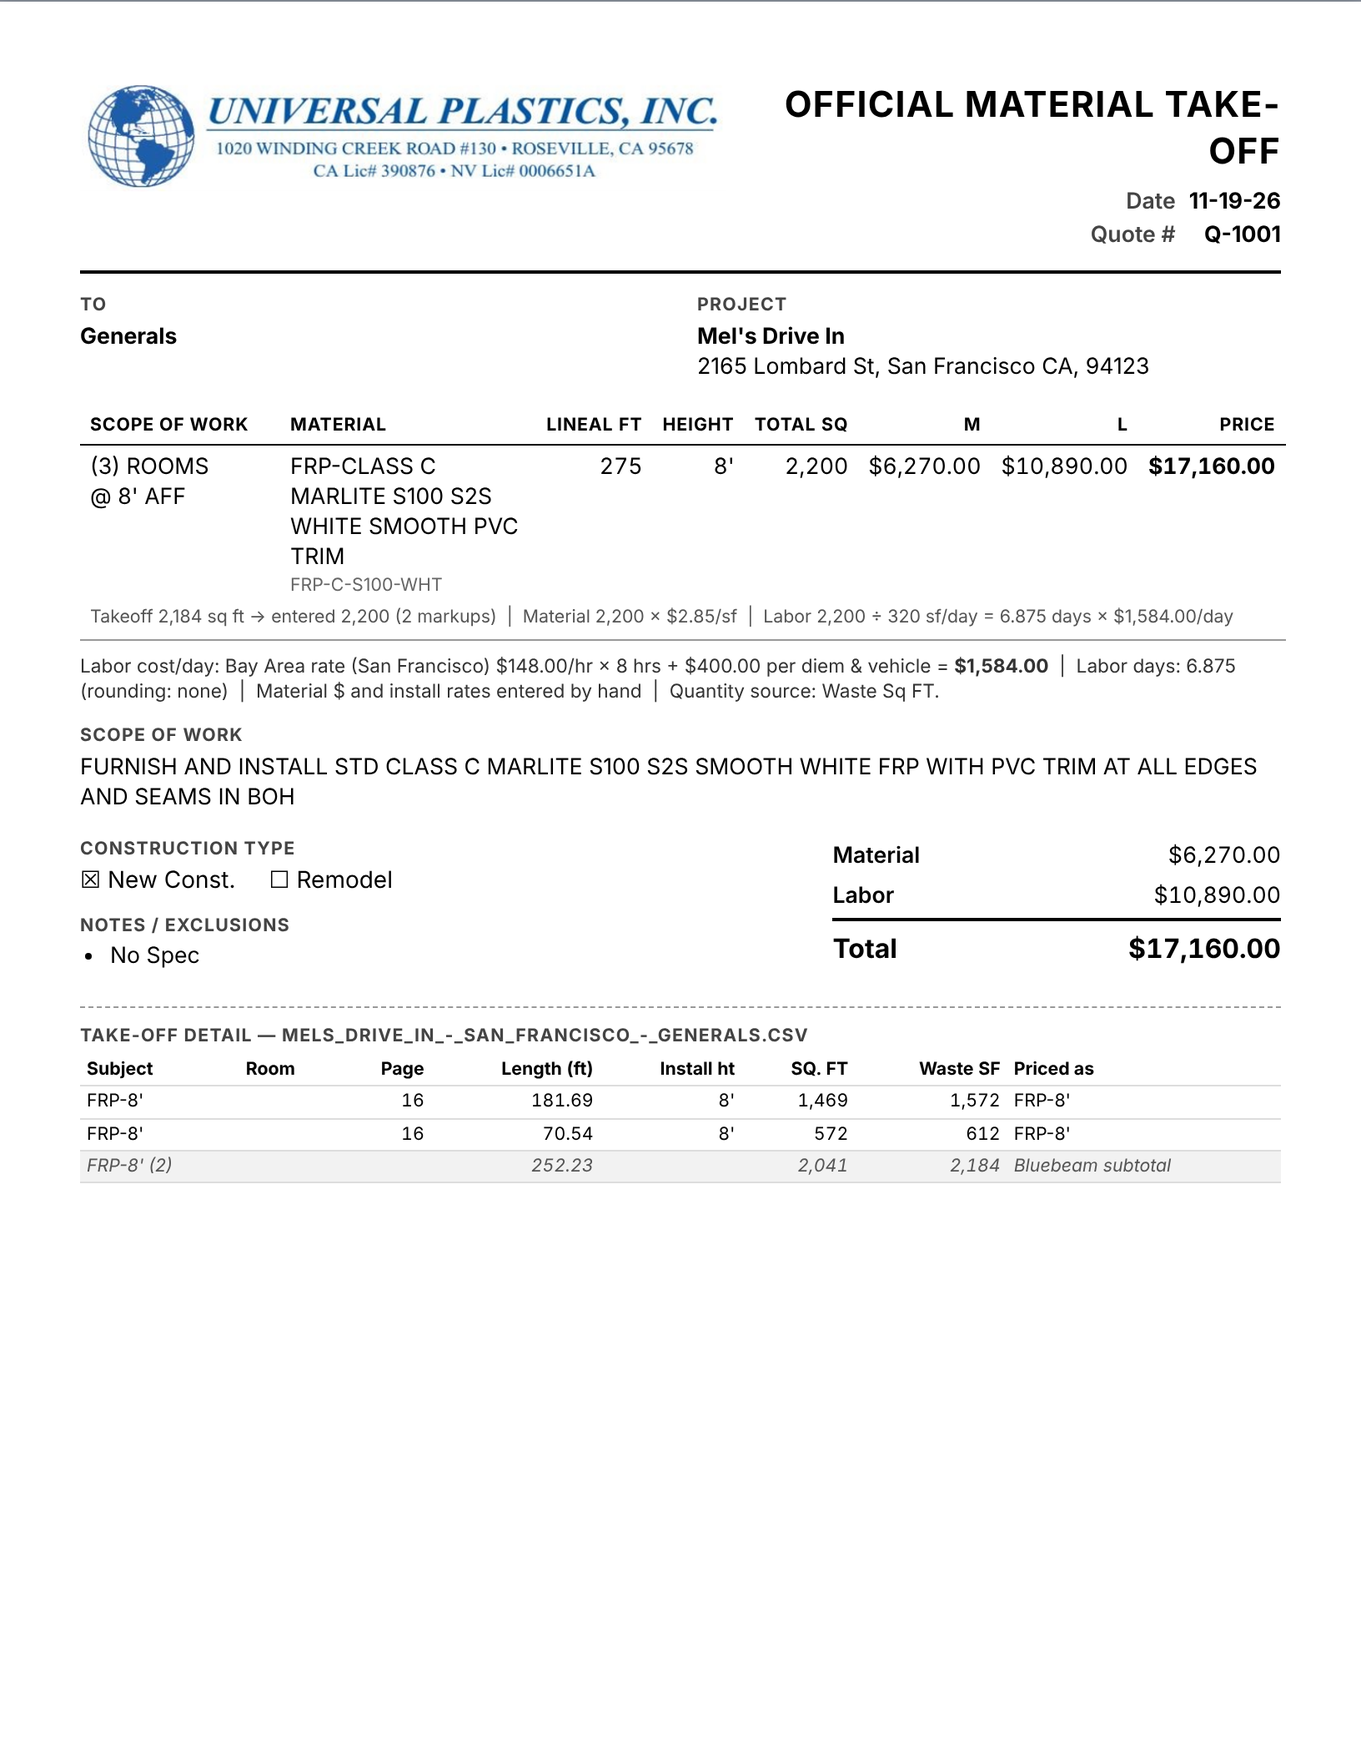
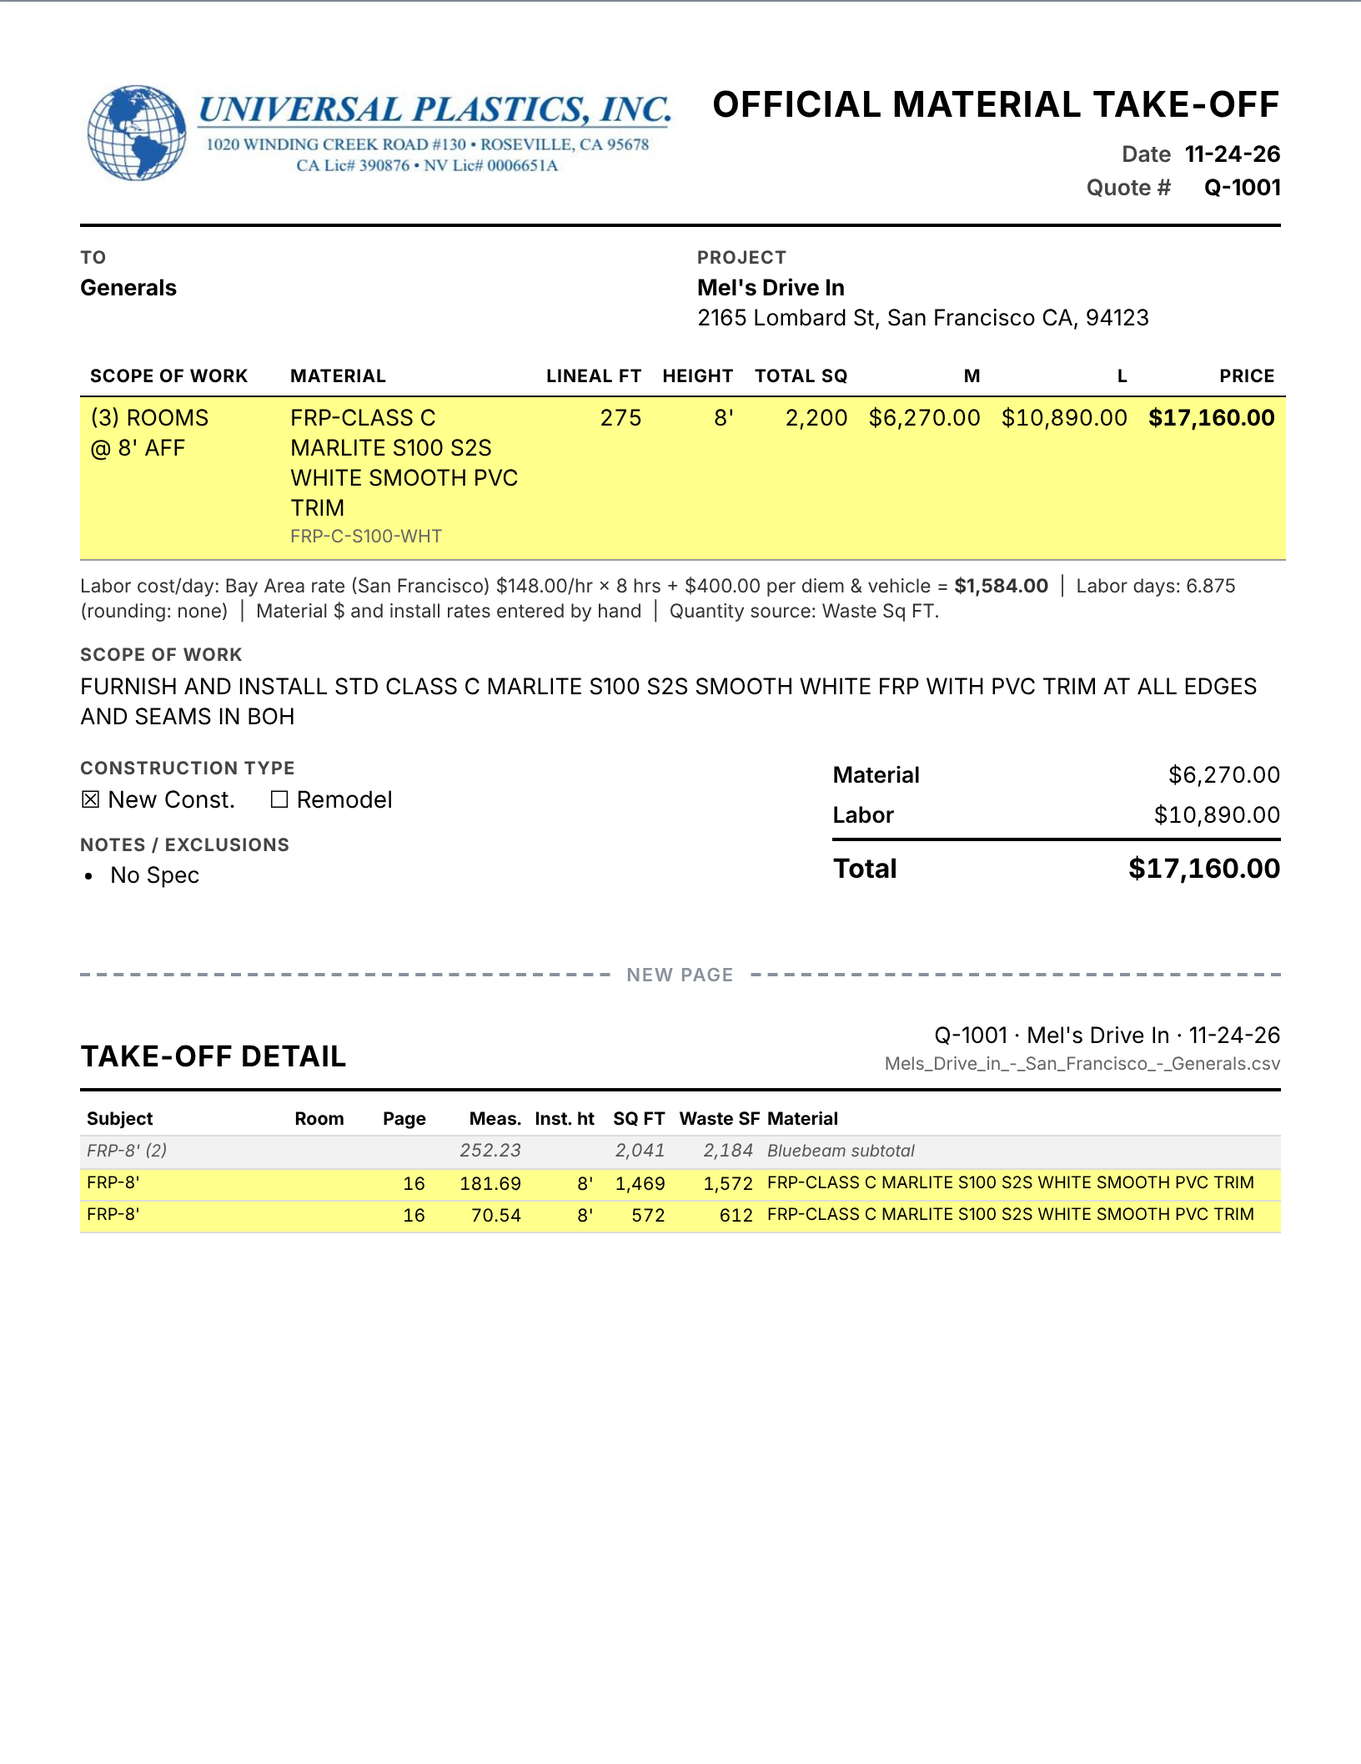
Internal take-off: detail on its own pages with material, calculations off by default (#10)
Take-off detail always starts a new page (repeated headings, own heading, Material description column, subtotals in CSV order, one line per markup); per-line calculation rows hidden by default with a Print options toggle; title no longer wraps beside the letterhead; README and screenshots updated.

Changed region(s): [[0.0312, 0.0312, 0.9688, 0.7181]]

diff --git a/js/quote.js b/js/quote.js
@@ -49,6 +49,7 @@
       validDays: settings.terms.validDays,
       taxPct: settings.terms.taxPct || 0,
       proposal: clone(settings.proposal || { showSplit: false, lumpSum: false, showUnitQty: true }),
+      internal: clone(settings.internal || { showCalc: false }),
       groupByRoom: false,
       laborZone: 'auto',     // union rate: "auto" (from the project city) | "local" | "bay"
       source: null,          // { fileName, importedAt, headers, rows, subtotals, warnings }
@@ -66,6 +67,7 @@
     out.gc = Object.assign({ name: '', attention: '' }, out.gc || {});
     out.project = Object.assign({ name: '', address: '' }, out.project || {});
     out.proposal = Object.assign({ showSplit: false, lumpSum: false, showUnitQty: true }, out.proposal || {});
+    out.internal = Object.assign({ showCalc: false }, out.internal || {});
     out.excludedRows = out.excludedRows || {};
     out.manualLines = out.manualLines || [];
     out.lineOverrides = out.lineOverrides || {};
@@ -241,19 +243,23 @@
           ' &times; ' + U.formatMoney(l.dayRate) + '/day');
       }
       if (l.rooms.length) detail.push('Rooms: ' + l.rooms.map(esc).join(', '));
+      var showCalc = !!(quote.internal && quote.internal.showCalc);
+      // Without the calculation row, still flag a Total SQ typed below the takeoff.
+      var belowFlag = !showCalc && l.qtyBelowTakeoff
+        ? '<div class="doc-flag doc-flag-small">below takeoff (' + U.formatNumber(l.rawQty, 2) + ')</div>' : '';
       return '' +
-        '<tbody class="doc-line"' + (U.tint(l.color) ? ' style="background:' + U.tint(l.color) + '"' : '') + '>' +
+        '<tbody class="doc-line' + (showCalc ? '' : ' nocalc') + '"' + (U.tint(l.color) ? ' style="background:' + U.tint(l.color) + '"' : '') + '>' +
         '<tr>' +
           '<td class="doc-scope-label">' + scopeLabelHtml(l.scopeLabel) + '</td>' +
           '<td>' + esc(l.description) + (l.code ? '<div class="doc-code">' + esc(l.code) + '</div>' : '') + '</td>' +
           '<td class="num">' + (l.linealFt !== null ? U.formatNumber(l.linealFt, l.unit === 'lf' ? 2 : 0) : '') + '</td>' +
           '<td class="num">' + (l.height ? esc(U.formatFeet(l.height)) : '') + '</td>' +
-          '<td class="num">' + qtyCell(l) + '</td>' +
+          '<td class="num">' + qtyCell(l) + belowFlag + '</td>' +
           '<td class="num">' + U.formatMoney(l.material) + '</td>' +
           '<td class="num">' + U.formatMoney(l.labor) + '</td>' +
           '<td class="num doc-strong">' + U.formatMoney(l.total) + '</td>' +
         '</tr>' +
-        '<tr class="doc-calc"><td colspan="8">' + detail.join(' &nbsp;|&nbsp; ') + '</td></tr>' +
+        (showCalc ? '<tr class="doc-calc"><td colspan="8">' + detail.join(' &nbsp;|&nbsp; ') + '</td></tr>' : '') +
         '</tbody>';
     }).join('');
 
@@ -286,36 +292,53 @@
       '</article>';
   }
 
+  /*
+   * Take-off detail: every Bluebeam row the quote is built from, with the material it is priced as.
+   * Printed on its own page(s) after the internal take-off (see .doc-takeoff in print.css).
+   */
   function renderTakeoffDetail(quote, priced) {
     var src = quote.source;
     if (!src || !src.rows || !src.rows.length) return '';
     var lineByRow = {};
     priced.lines.forEach(function (l) { l.rowIds.forEach(function (id) { lineByRow[id] = l; }); });
-    var rows = src.rows.map(function (r) {
+    var unitSuffix = { ea: ' ea', lf: ' lf' };
+    // CSV order, Bluebeam subtotal rows where they were in the export
+    var all = src.rows.concat(src.subtotals || []).slice().sort(function (a, b) { return (a.line || 0) - (b.line || 0); });
+    var body = all.map(function (r) {
+      if (r.isSubtotal) {
+        return '<tr class="doc-subtotal"><td>' + esc(r.subject) + '</td><td></td><td></td>' +
+          '<td class="num">' + U.formatNumber(r.measurement, 2) + '</td><td></td>' +
+          '<td class="num">' + U.formatNumber(r.sqFt, 2) + '</td>' +
+          '<td class="num">' + U.formatNumber(r.wasteSqFt, 2) + '</td><td>Bluebeam subtotal</td></tr>';
+      }
       var excluded = quote.excludedRows[r.id];
       var l = lineByRow[r.id];
       var rowBg = U.tint(r.color);
+      var unit = global.Parse && global.Parse.rowUnit ? global.Parse.rowUnit(r) : null;
+      var material = excluded ? '<em>Excluded</em>'
+        : (l ? esc(l.description) : '<em>Not priced</em>');
       return '<tr' + (excluded || !l ? ' class="doc-muted"' : '') + (rowBg ? ' style="background:' + rowBg + '"' : '') + '>' +
         '<td>' + esc(r.subject) + '</td><td>' + esc(r.room || r.space) + '</td><td class="num">' + esc(r.page) + '</td>' +
-        '<td class="num">' + U.formatNumber(r.measurement, 2) + '</td>' +
+        '<td class="num">' + U.formatNumber(r.measurement, 2) + (unitSuffix[unit] || '') + '</td>' +
         '<td class="num">' + esc(r.installHeightText) + '</td>' +
         '<td class="num">' + U.formatNumber(r.sqFt, 2) + '</td>' +
         '<td class="num">' + U.formatNumber(r.wasteSqFt, 2) + '</td>' +
-        '<td>' + (excluded ? 'excluded' : (l ? esc(l.catalogSubject) : 'not priced')) + '</td></tr>';
-    }).join('');
-    var subs = (src.subtotals || []).map(function (s) {
-      return '<tr class="doc-subtotal"><td>' + esc(s.subject) + '</td><td></td><td></td>' +
-        '<td class="num">' + U.formatNumber(s.measurement, 2) + '</td><td></td>' +
-        '<td class="num">' + U.formatNumber(s.sqFt, 2) + '</td>' +
-        '<td class="num">' + U.formatNumber(s.wasteSqFt, 2) + '</td><td>Bluebeam subtotal</td></tr>';
+        '<td>' + material + '</td></tr>';
     }).join('');
     var warnings = (src.warnings || []).concat(priced.warnings || []).filter(function (w) { return w.level !== 'info'; });
+    var meta = [quote.number, quote.project && quote.project.name, U.formatDateShort(quote.date)].filter(Boolean).map(esc).join(' &middot; ');
     return '' +
       '<section class="doc-takeoff">' +
-        '<div class="doc-label">Take-off detail' + (src.fileName ? ' &mdash; ' + esc(src.fileName) : '') + '</div>' +
-        '<table class="doc-small"><thead><tr><th>Subject</th><th>Room</th><th class="num">Page</th><th class="num">Length (ft)</th>' +
-        '<th class="num">Install ht</th><th class="num">SQ. FT</th><th class="num">Waste SF</th><th>Priced as</th></tr></thead>' +
-        '<tbody>' + rows + subs + '</tbody></table>' +
+        '<div class="doc-takeoff-head">' +
+          '<h2>Take-off detail</h2>' +
+          '<div>' + meta + (src.fileName ? '<div class="doc-code">' + esc(src.fileName) + '</div>' : '') + '</div>' +
+        '</div>' +
+        '<table class="doc-small">' +
+        '<colgroup><col style="width:1.3in"><col style="width:0.55in"><col style="width:0.35in"><col style="width:0.6in">' +
+        '<col style="width:0.45in"><col style="width:0.45in"><col style="width:0.55in"><col></colgroup>' +
+        '<thead><tr><th>Subject</th><th>Room</th><th class="num">Page</th><th class="num">Meas.</th>' +
+        '<th class="num">Inst. ht</th><th class="num">SQ FT</th><th class="num">Waste SF</th><th>Material</th></tr></thead>' +
+        '<tbody>' + body + '</tbody></table>' +
         (warnings.length ? '<ul class="doc-warnings">' + warnings.map(function (w) { return '<li>' + esc(w.message) + '</li>'; }).join('') + '</ul>' : '') +
       '</section>';
   }

diff --git a/css/print.css b/css/print.css
@@ -1,7 +1,7 @@
 /* print.css — the quote document.  Used by the on-screen preview and by Print → Save as PDF. */
 
 .doc { color: #000; font: 10pt/1.35 "Segoe UI", Arial, sans-serif; }
-.doc h1 { font-size: 16pt; margin: 0 0 6px; letter-spacing: .03em; text-align: right; }
+.doc h1 { font-size: 16pt; margin: 0 0 6px; letter-spacing: .03em; text-align: right; white-space: nowrap; }
 .doc .num { text-align: right; white-space: nowrap; font-variant-numeric: tabular-nums; }
 .doc-strong { font-weight: 700; }
 .doc-label { font-size: 8pt; font-weight: 700; text-transform: uppercase; letter-spacing: .06em; color: #444; margin: 0 0 3px; }
@@ -10,7 +10,7 @@
 .doc-company { display: flex; gap: 12px; align-items: flex-start; }
 .doc-logo { max-height: 70px; max-width: 200px; }
 .doc-company-banner { flex-direction: column; gap: 4px; }
-.doc-banner { display: block; width: 4.4in; max-width: 100%; height: auto; }
+.doc-banner { display: block; width: 3.9in; max-width: 100%; height: auto; }
 .doc-banner-contact { font-size: 9pt; padding-left: 2px; }
 .doc-company-name { font-size: 13pt; font-weight: 700; }
 .doc-title { text-align: right; }
@@ -27,6 +27,8 @@
 .doc-lines tbody.doc-line { break-inside: avoid; }
 .doc-lines tr.doc-calc td { font-size: 8pt; color: #555; padding-top: 0; border-bottom: 1px solid #999; }
 .doc-lines tbody.doc-line tr:first-child td { border-bottom: 0; }
+.doc-lines tbody.doc-line.nocalc tr td { border-bottom: 1px solid #999; }
+.doc-flag-small { font-size: 7.5pt; font-weight: 700; white-space: nowrap; }
 .doc-lines td.doc-scope-label { min-width: 1.25in; }      /* label wraps only between chunks (see scopeLabelHtml) */
 .doc-internal .doc-lines td:nth-child(2) { min-width: 1.6in; }
 .doc-code { font-size: 8pt; color: #666; }
@@ -51,7 +53,17 @@
 .doc-sign { display: grid; grid-template-columns: 2fr 1fr 2fr; gap: 24px; margin-top: 36px; font-size: 8.5pt; color: #333; break-inside: avoid; }
 .doc-sign-line { border-bottom: 1px solid #000; height: 28px; margin-bottom: 3px; }
 
-.doc-takeoff { margin-top: 20px; border-top: 1px dashed #999; padding-top: 10px; break-inside: avoid; }
+/* Take-off detail: always starts on its own page (and may run over several); headings repeat per page. */
+.doc-takeoff { break-before: page; page-break-before: always; padding-top: 4px; }
+.doc-takeoff-head { display: flex; justify-content: space-between; align-items: flex-end; gap: 16px; border-bottom: 2px solid #000; padding-bottom: 6px; margin-bottom: 8px; text-align: right; }
+.doc-takeoff-head h2 { margin: 0; font-size: 13pt; letter-spacing: .03em; text-transform: uppercase; text-align: left; }
+.doc-small thead { display: table-header-group; }
+/* Fixed column widths (see <colgroup>): short columns sized to their contents, Material gets ~3in. */
+.doc-takeoff .doc-small { table-layout: fixed; }
+.doc-takeoff .doc-small th, .doc-takeoff .doc-small td.num { white-space: nowrap; overflow: hidden; }
+.doc-takeoff .doc-small td:first-child, .doc-takeoff .doc-small td:last-child { font-size: 7.5pt; }
+.doc-small tr { break-inside: avoid; }
+.doc-small td em { color: #777; }
 .doc-small { width: 100%; border-collapse: collapse; font-size: 8pt; }
 .doc-small th, .doc-small td { padding: 2px 4px; border-bottom: 1px solid #ddd; text-align: left; }
 .doc-small th.num, .doc-small td.num { text-align: right; }

diff --git a/test/tests.html b/test/tests.html
@@ -411,7 +411,11 @@
       eq(L[2].missingRates.length, 0, 'sf/day not needed when days are entered');
       eq(pr.totals.total, 70693.33, 'Total $70,693.33');
       eq(L.filter(function (l) { return l.qtyBelowTakeoff; }).length, 0, 'nothing below takeoff');
-      ok(/9 days \(entered\)/.test(Quote.render(q, pr, s, 'internal')), 'internal take-off shows entered days');
+      ok(!/doc-calc/.test(Quote.render(q, pr, s, 'internal')), 'calculation rows off by default');
+      ok(/\$1,660\.00<\/strong>/.test(Quote.render(q, pr, s, 'internal')), 'labor cost/day summary still shown');
+      q.internal.showCalc = true;
+      ok(/9 days \(entered\)/.test(Quote.render(q, pr, s, 'internal')), 'with calculations on: entered days shown');
+      q.internal.showCalc = false;
     });
 
     group('Pricing — default scope count');
@@ -603,9 +607,17 @@
       eq(L[0].color, '#00FF00', 'most common colour wins');
       eq(L[1].color, null, 'no colour -> none');
       var internal = Quote.render(q, pr, s, 'internal');
-      ok(/<tbody class="doc-line" style="background:#FFFF8C">/.test(internal), 'internal take-off lines shaded');
+      ok(/<tbody class="doc-line[^"]*" style="background:#FFFF8C">/.test(internal), 'internal take-off lines shaded');
       ok(/<tr style="background:#C6FF8C">/.test(internal), 'take-off detail rows shaded');
       ok(!/background:#/.test(Quote.render(q, pr, s, 'proposal')), 'GC proposal stays plain');
+      var detail = internal.slice(internal.indexOf('<section class="doc-takeoff">'));
+      ok(detail.length > 100, 'take-off detail section present');
+      ok(/<th>Material<\/th>/.test(detail), 'Material column');
+      eq((detail.match(/FRP-CLASS C MARLITE S100 S2S WHITE SMOOTH PVC TRIM/g) || []).length, 26, 'material description on every one of the 26 rows');
+      var iFrp = detail.indexOf('104-FRP-10&#39; (2)'), iMar = detail.indexOf('126-MARLITE-4&#39; (15)');
+      ok(iFrp > 0 && iFrp < iMar && iMar < detail.indexOf('SALES'), 'subtotal rows in CSV order');
+      ok(/Take-off detail<\/h2>/.test(detail) && /Q-1001/.test(detail), 'own heading with quote #');
+      ok(!/doc-takeoff/.test(Quote.render(q, pr, s, 'proposal')), 'not on the GC proposal');
     });
 
     group('Pricing — Total SQ vs takeoff');
@@ -619,7 +631,10 @@
       var pr = Pricing.price(q, fixture().rows);
       eq(pr.lines[0].qtyBelowTakeoff, true, '2,100 < 2,184 flagged');
       ok(pr.warnings.some(function (w) { return w.code === 'qtybelow' && /2,100/.test(w.message) && /2,184/.test(w.message); }), 'warning names both numbers');
-      ok(/BELOW TAKEOFF/.test(Quote.render(q, pr, s, 'internal')), 'flagged on the internal take-off');
+      ok(/below takeoff \(2,184\)/.test(Quote.render(q, pr, s, 'internal')), 'flagged on the internal take-off (calculations off)');
+      q.internal.showCalc = true;
+      ok(/BELOW TAKEOFF/.test(Quote.render(q, pr, s, 'internal')), 'flagged in the calculation row (calculations on)');
+      q.internal.showCalc = false;
       ok(!/BELOW TAKEOFF/.test(Quote.render(q, pr, s, 'proposal')), 'never on the GC proposal');
       q.lineOverrides[l.key] = { qty: '2184' };
       eq(Pricing.price(q, fixture().rows).lines[0].qtyBelowTakeoff, false, 'equal is fine');

diff --git a/js/app.js b/js/app.js
@@ -122,6 +122,7 @@
     q.validDays = fresh.validDays;
     q.notes = fresh.notes;
     q.proposal = fresh.proposal;
+    q.internal = fresh.internal;
     if (!q.numberCommitted) q.number = fresh.number;
     recompute();
     saveDraft();
@@ -543,8 +544,13 @@
         field('Notes / exclusions (one per line)', '<textarea rows="4" id="q-notes" data-q="notes">' + esc(q.notes) + '</textarea>') +
       '</div>' +
       '<div class="card">' +
-        '<h3>GC proposal options</h3>' +
+        '<h3>Print options</h3>' +
         '<div class="row">' +
+          '<span class="field"><span>Internal take-off</span></span>' +
+          '<label class="check"><input type="checkbox" id="q-calc" data-q="internal.showCalc"' + (q.internal && q.internal.showCalc ? ' checked' : '') + '> Show calculations under each line</label>' +
+        '</div>' +
+        '<div class="row" style="margin-top:8px">' +
+          '<span class="field"><span>GC proposal</span></span>' +
           '<label class="check"><input type="checkbox" id="q-lump" data-q="proposal.lumpSum"' + (q.proposal.lumpSum ? ' checked' : '') + '> Lump sum only (hide line prices)</label>' +
           '<label class="check"><input type="checkbox" id="q-split" data-q="proposal.showSplit"' + (q.proposal.showSplit ? ' checked' : '') + '> Show material / labor split</label>' +
           '<label class="check"><input type="checkbox" id="q-qty" data-q="proposal.showUnitQty"' + (q.proposal.showUnitQty !== false ? ' checked' : '') + '> Show quantities</label>' +
@@ -749,6 +755,10 @@
           field('Next quote #', numInput('s-next', s.quote.nextNumber, ' data-s="quote.nextNumber"')) +
         '</div>' +
         '<div style="margin-top:10px">' + field('Default notes / exclusions (one per line)', '<textarea rows="4" id="s-notes" data-s="terms.notes" data-lines="1">' + esc((s.terms.notes || []).join('\n')) + '</textarea>') + '</div>' +
+        '<div class="row" style="margin-top:10px">' +
+          '<span class="field"><span>Internal take-off defaults</span></span>' +
+          '<label class="check"><input type="checkbox" id="s-calc" data-s="internal.showCalc"' + (s.internal && s.internal.showCalc ? ' checked' : '') + '> Show calculations under each line</label>' +
+        '</div>' +
         '<div class="row" style="margin-top:10px">' +
           '<span class="field"><span>GC proposal defaults</span></span>' +
           '<label class="check"><input type="checkbox" id="s-lump" data-s="proposal.lumpSum"' + (s.proposal.lumpSum ? ' checked' : '') + '> Lump sum only</label>' +

diff --git a/css/app.css b/css/app.css
@@ -197,3 +197,7 @@ table.data td.item-cell { min-width: 220px; }
 .scope-edit select { width: auto !important; padding: 5px 4px; }
 .scope-preview { font-size: 12px; font-weight: 600; margin-top: 3px; white-space: nowrap; }
 .scope-preview.typed { color: #7a5200; }
+
+/* Preview: the take-off detail prints on its own page; show where the page breaks */
+.preview .doc .doc-takeoff { margin-top: 48px; padding-top: 28px; border-top: 2px dashed #8a919c; position: relative; }
+.preview .doc .doc-takeoff::before { content: "new page"; position: absolute; top: -11px; left: 50%; transform: translateX(-50%); background: #fff; color: #8a919c; font: 600 11px/20px system-ui, sans-serif; padding: 0 8px; text-transform: uppercase; letter-spacing: .08em; }

diff --git a/data/defaults.js b/data/defaults.js
@@ -69,5 +69,8 @@ window.DEFAULTS = {
   },
   terms: { validDays: 30, notes: ["No Spec"], taxPct: 0 },
   proposal: { showSplit: false, lumpSum: false, showUnitQty: true },
+  // Internal take-off: per-line calculation rows (takeoff → qty, material ×, labor ÷) are off by default;
+  // the labor cost/day summary under the line items covers them.
+  internal: { showCalc: false },
   quote: { nextNumber: 1001, prefix: "Q-" }
 };

diff --git a/README.md b/README.md
@@ -46,7 +46,7 @@ These use the Mel's Drive In sample takeoff (`test/fixtures/mels-drive-in.csv`) 
 
 ![Quote tab](docs/screenshots/3-quote.png)
 
-**4. Print layouts:** the GC proposal (left) and the internal take-off (right), which shows the material/labor split, rates and take-off detail.
+**4. Print layouts:** the GC proposal (left) and the internal take-off (right), which shows the material/labor split and rates. The take-off detail follows on its own page.
 
 <table>
   <tr>
@@ -318,7 +318,9 @@ Header and fields mirror the current sheet:
 - **Grand total**
 
 Two print views from the same data:
-1. **Internal take-off**: shows the M/L split, rates, labor days, and the waste-quantity check.
+1. **Internal take-off**:
+   - **Page 1:** the M/L split, rates and labor-days summary (the labor cost/day line under the line items), with no per-line calculation rows by default. Turn those on with *Quote tab → Print options → Show calculations under each line* (default in Settings). A Total SQ typed below the takeoff is still flagged on its line.
+   - **Take-off detail:** always starts on its own page and runs onto more pages if needed, with the column headings repeated. Each Bluebeam row shows the material description it is priced as, shaded with its markup colour; the Bluebeam subtotal rows stay in CSV order.
 2. **GC proposal**: shows only line descriptions, quantities, and price (or lump sum). Hides the rates.
 
 Output = `print.css` + `window.print()` → user picks "Save as PDF". No PDF library needed.
